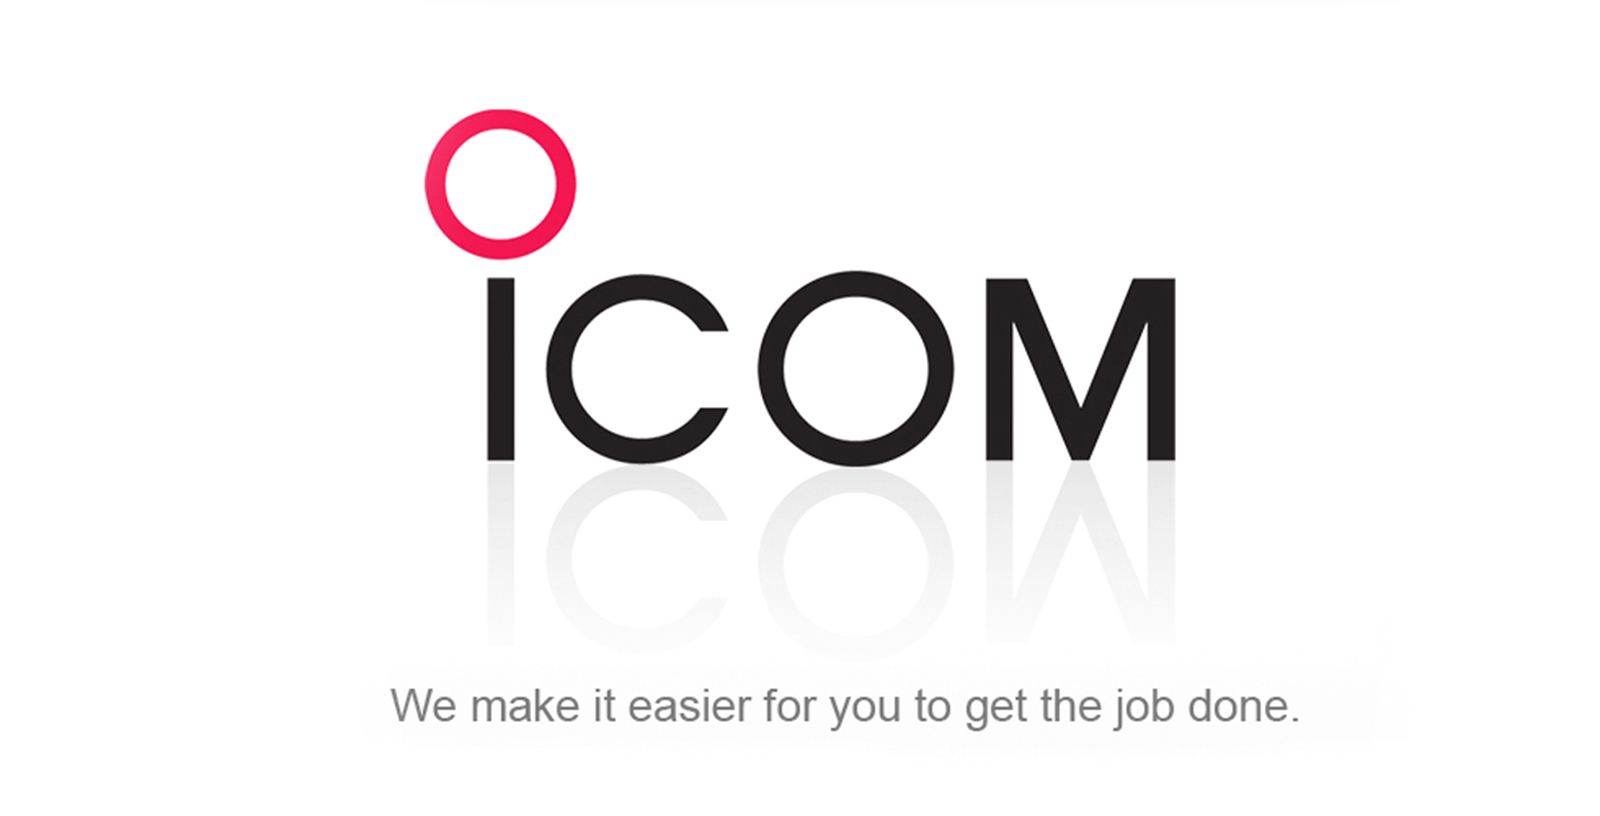
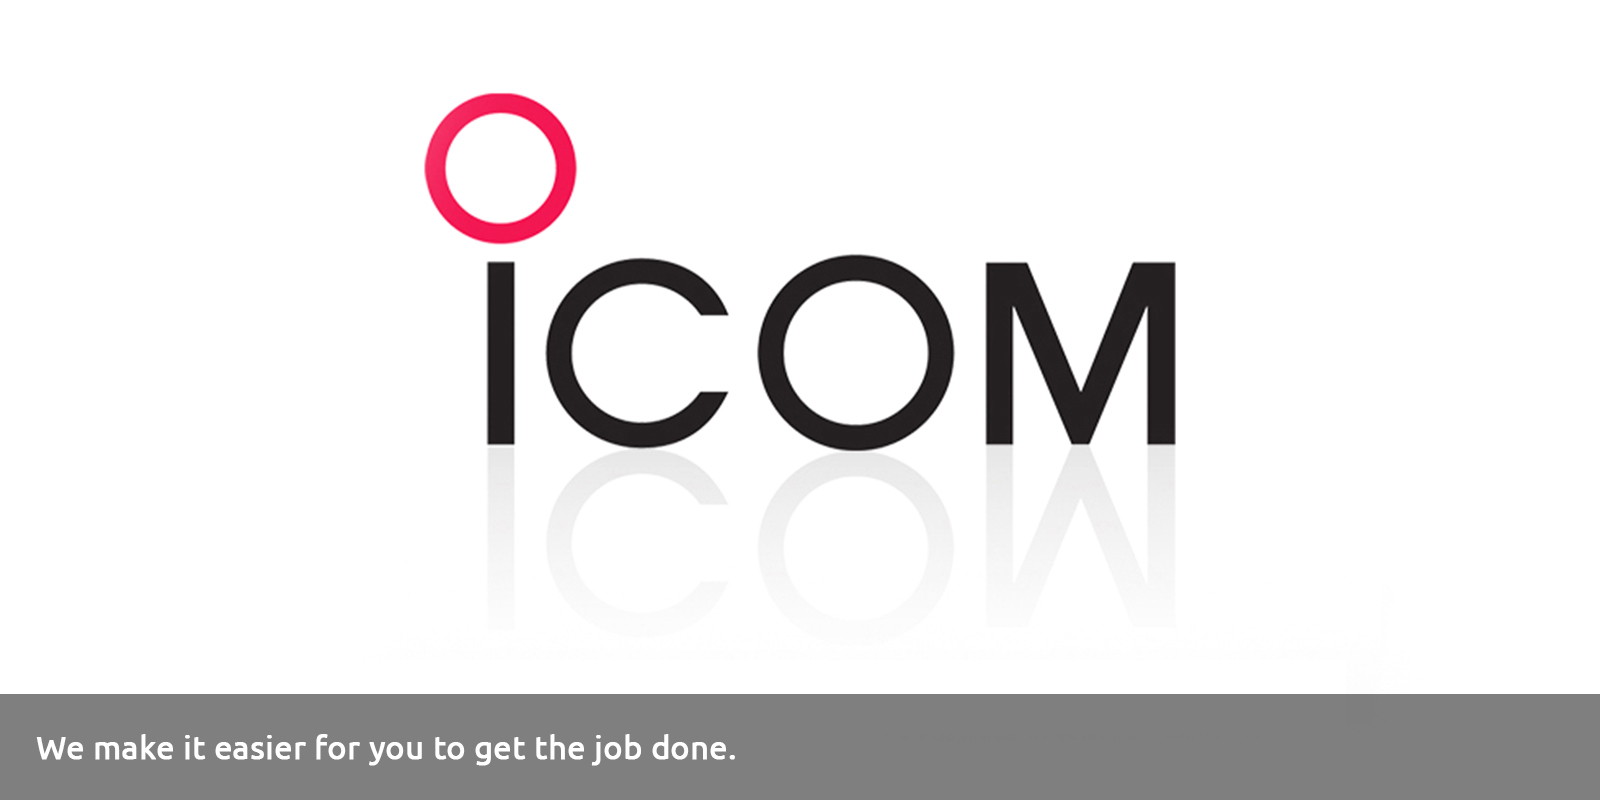
add fontawesome

diff --git a/assets/less/dashboard/index.less b/assets/less/dashboard/index.less
@@ -1,28 +1,33 @@
 .main-side {
   .main-carousel {
     margin-top: -45px;
-    height: 650px;
 
     .carousel-control {
       display: none;
     }
 
     .carousel-indicators {
+      margin-bottom: 0;
+      bottom: 15px;
+
       li {
         margin-left: 3px;
         margin-right: 3px;
-        border-color: @color-vts;
-
-        &.active {
-          border-color: white;
-          background: @color-vts;
-        }
       }
     }
+  }
 
-    .carousel-inner {
-      .active {
-        min-height: 650px;
+  .list-brands {
+    .col {
+      .make-md-column(3, 0);
+      .make-xs-column(6, 0);
+      height: 200px;
+      overflow: hidden;
+
+      img {
+        position: absolute;
+        left: 50%;
+        margin-left: -320px;
       }
     }
   }

diff --git a/app/controllers/DashboardController.js b/app/controllers/DashboardController.js
@@ -23,10 +23,20 @@ IndexController.prototype.listSlides = function() {
     ];
 };
 
+IndexController.prototype.listBrands = function() {
+    return [
+        {image: 'assets/images/promo_back_to_school_large.jpg'},
+        {image: 'assets/images/promo_camera_large.jpg'},
+        {image: 'assets/images/promo_diversity_large.jpg'},
+        {image: 'assets/images/promo_health_large.jpg'}
+    ];
+};
+
 IndexController.prototype.initData = function() {
     this.data.interval = 5000;
     this.data.noWrapSlides = false;
     this.data.slides = this.listSlides();
+    this.data.brands = this.listBrands();
 };
 
 app.controller('IndexController', IndexController);

diff --git a/templates/index.html b/templates/index.html
@@ -33,4 +33,12 @@
             </slide>
         </carousel>
     </div>
+    <div class="list-brands">
+        <div class="col" ng-repeat="brand in data.brands">
+            <img ng-src="{{brand.image}}">
+        </div>
+    </div>
+    <div class="promotion-caption">
+        <a href="#/">KHUYẾN MÃI MUA MÁY ICOM TẶNG TAI NGHE <span class="fa fa-angle-right"></span></a>
+    </div>
 </div>

diff --git a/assets/less/main.less b/assets/less/main.less
@@ -1,4 +1,5 @@
 //bootstrap
+@import '/vendor/Font-Awesome/less/font-awesome.less';
 @import '/node_modules/bootstrap/less/bootstrap';
 @import 'variables/vts-variables.less';
 @import 'color';
@@ -14,6 +15,7 @@
 
 body {
   font-size: 12px;
+  overflow-x: hidden;
 }
 
 .padding-none {
